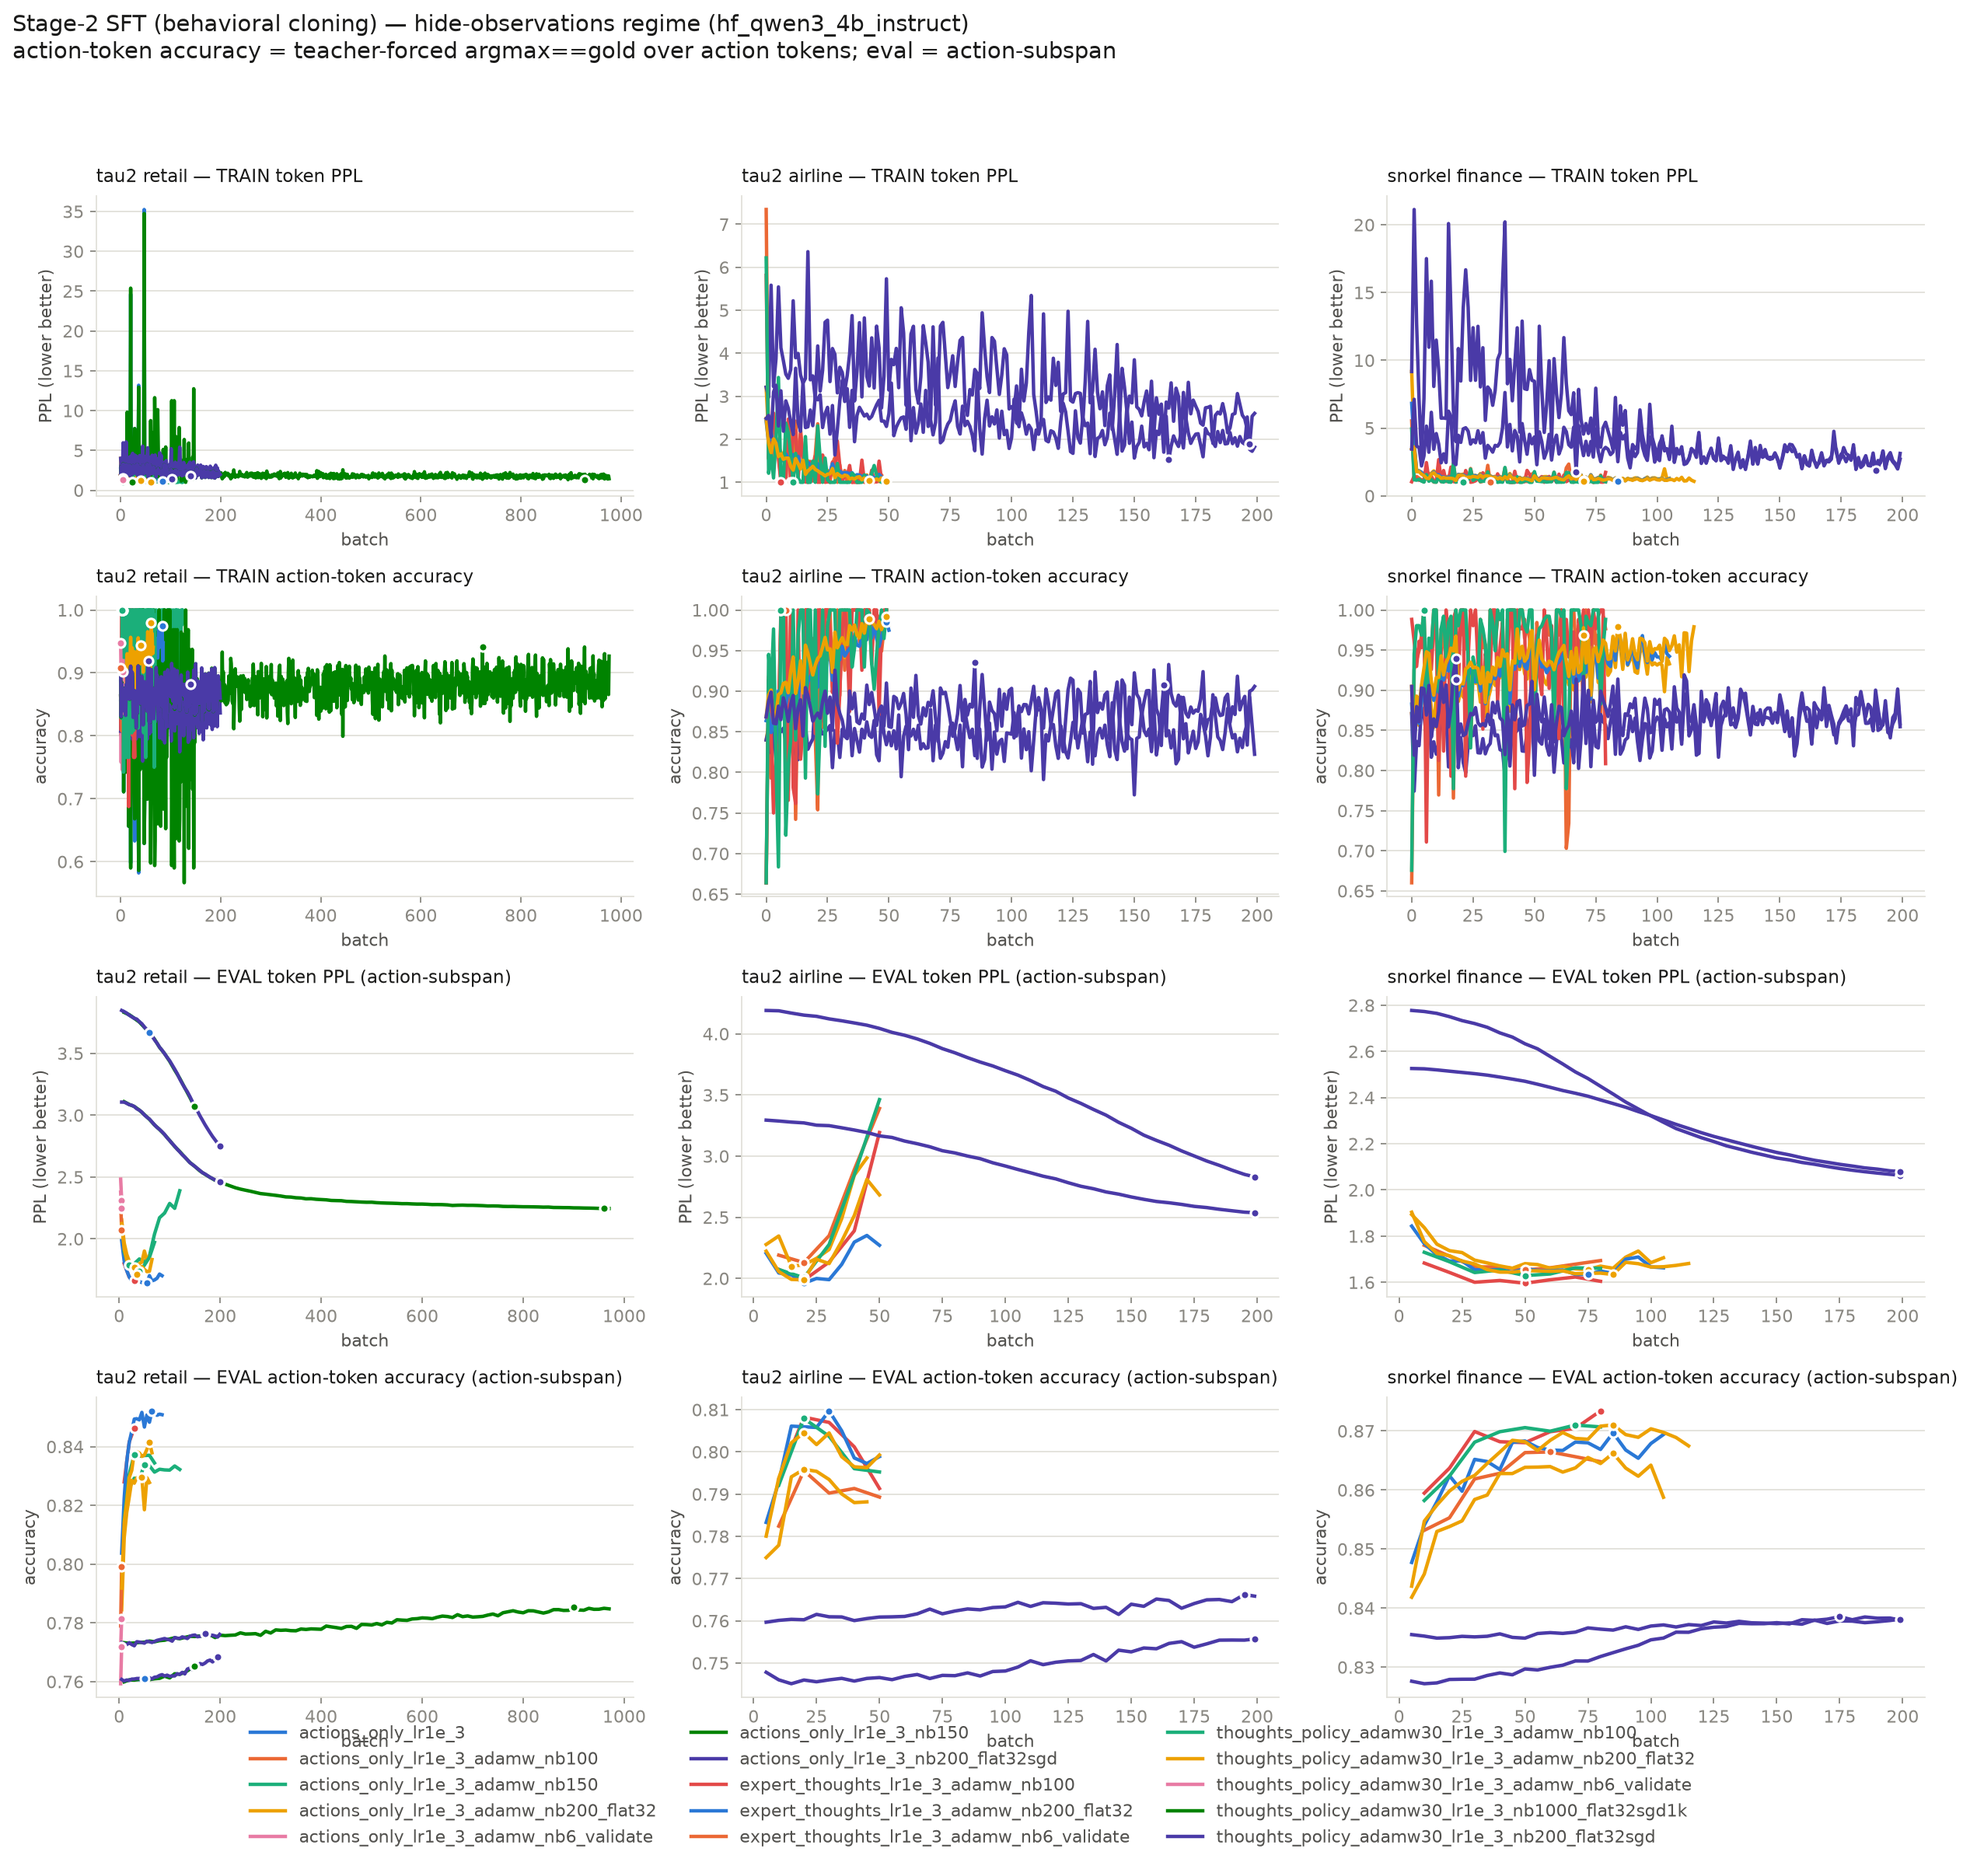
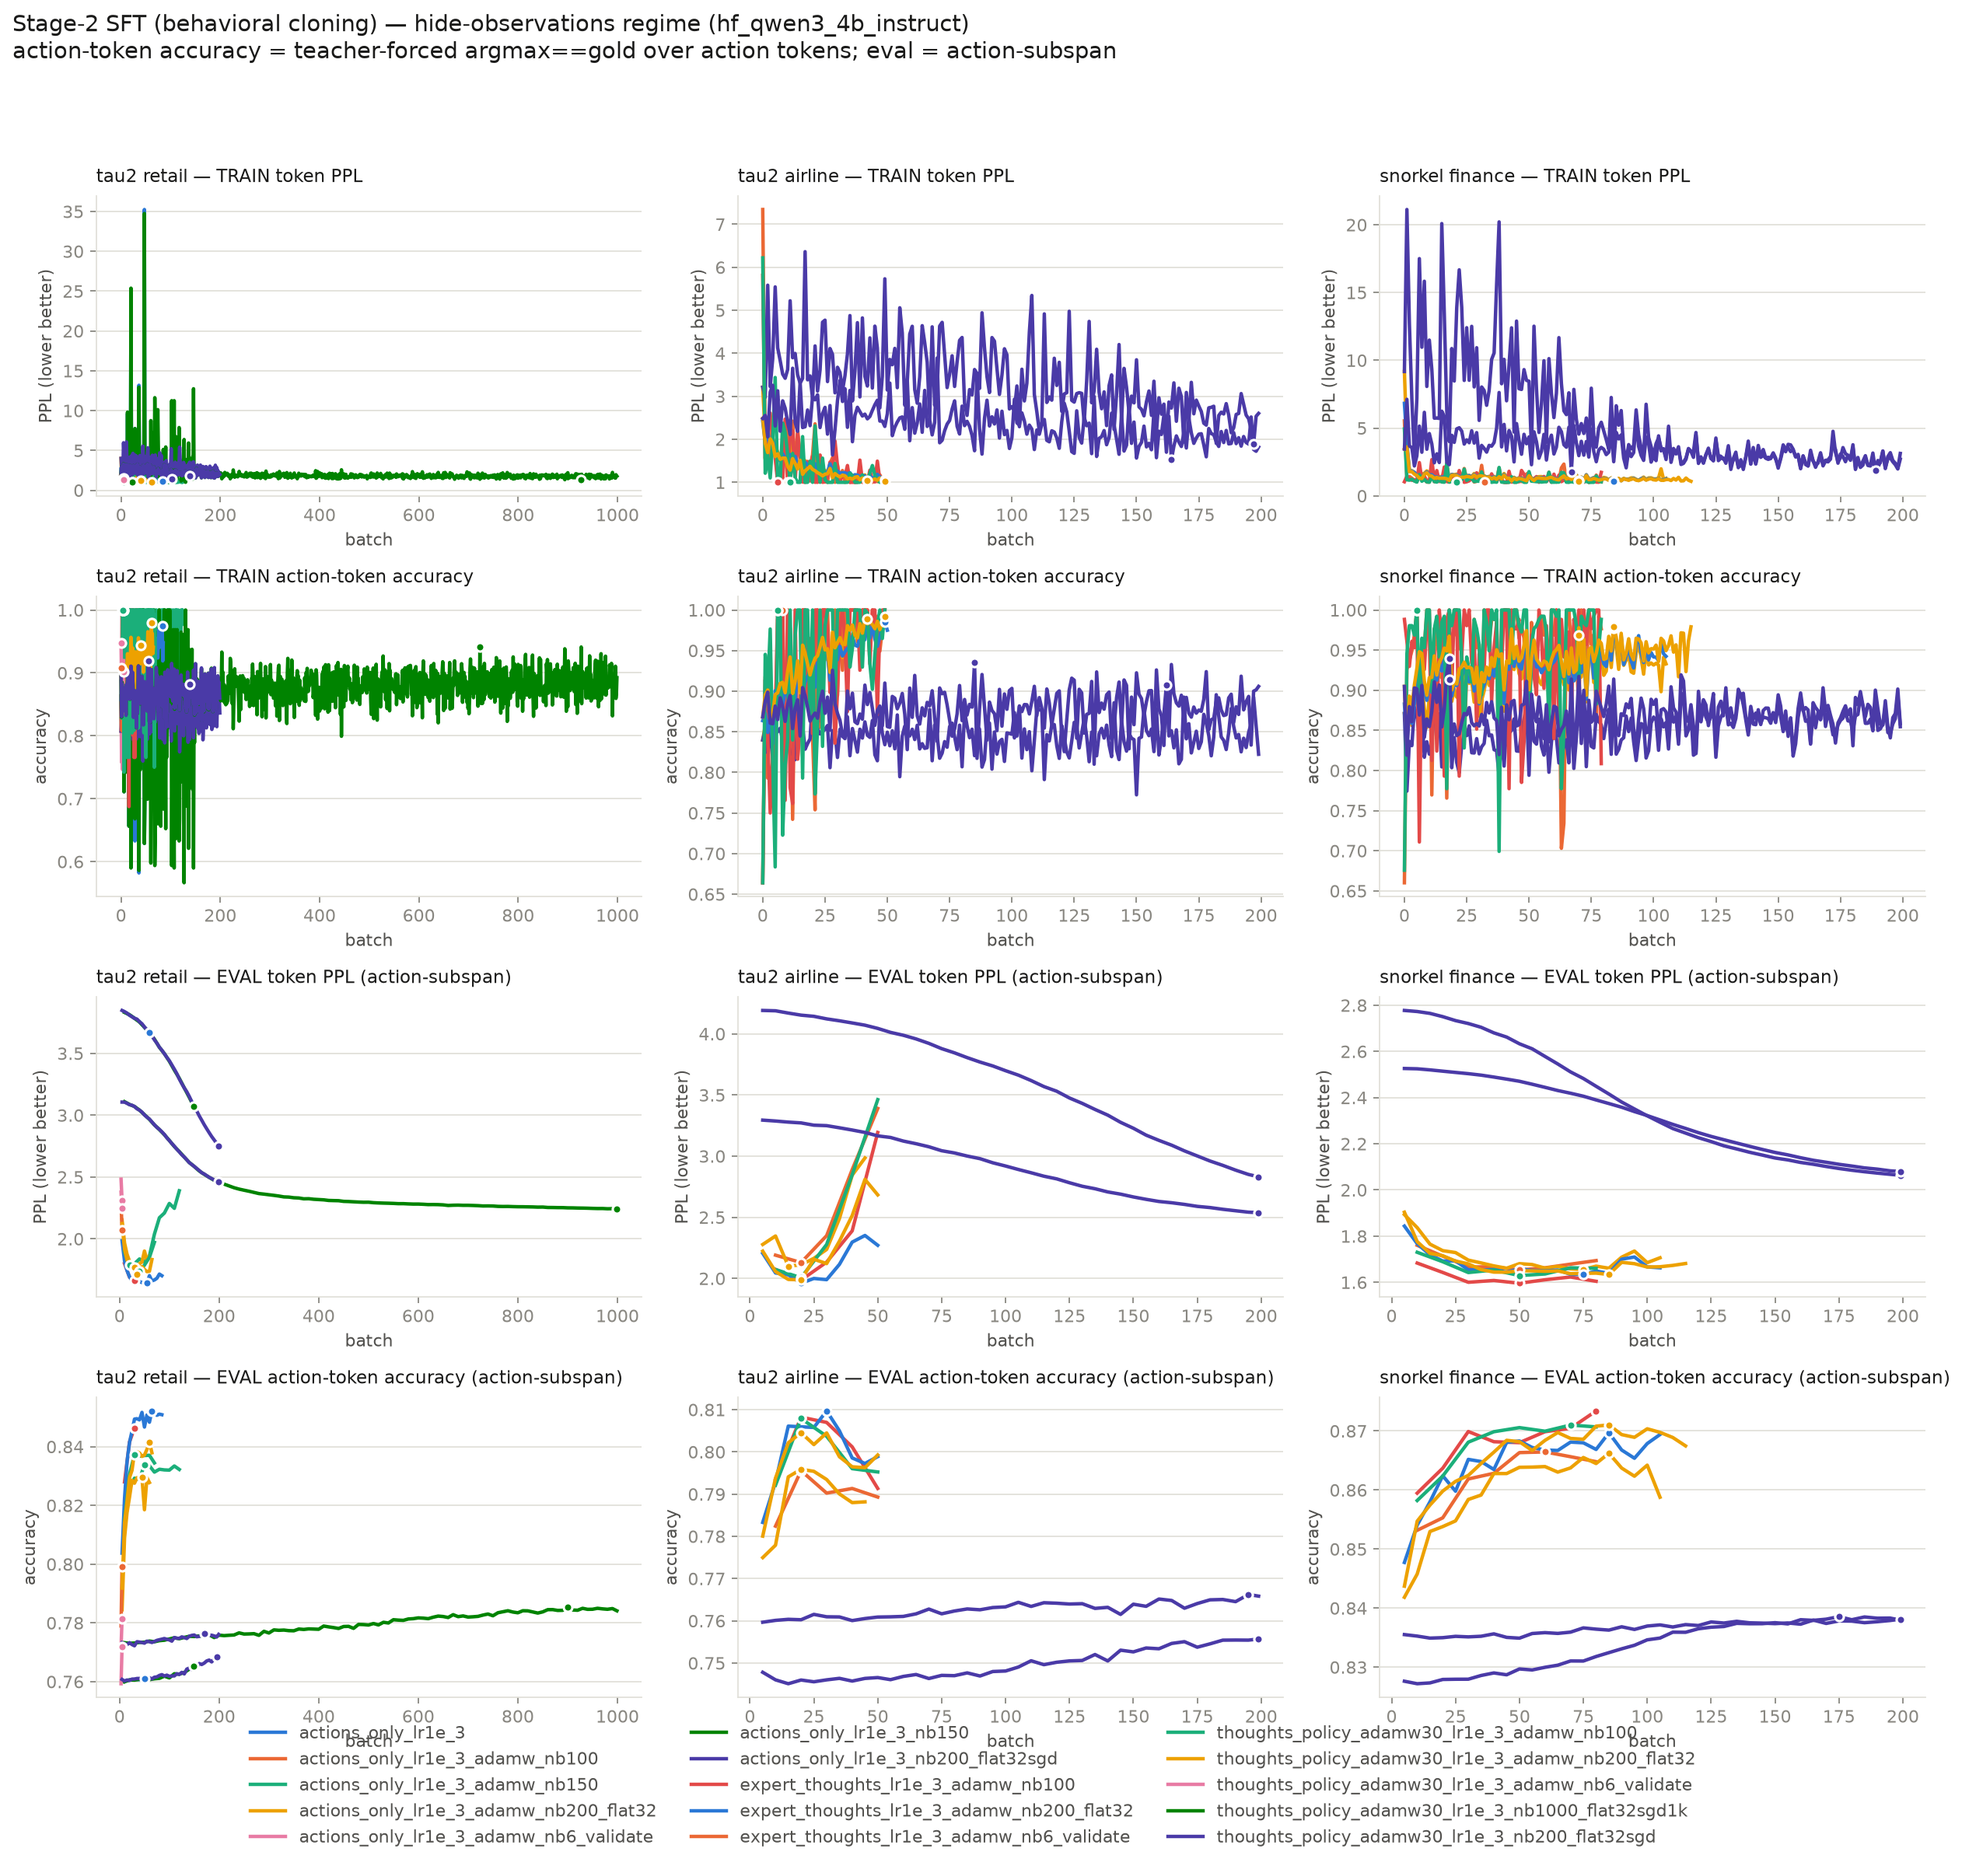
auto: SFT LR sweep results snapshot

diff --git a/notes/cc-5.0-sft-lr-investigation.md b/notes/cc-5.0-sft-lr-investigation.md
@@ -376,7 +376,7 @@ retail/expert_thoughts_lr1e_3_adamw_nb6_validate     hide    5     2.2879 ->   2
 retail/thoughts_policy_adamw30_lr1e_3_adamw_nb100    hide   70     1.8959 ->   1.9718  -4.00%  0.8345        1.3828  <running>
 retail/thoughts_policy_adamw30_lr1e_3_adamw_nb200_flat32 hide   65     2.1230 ->   1.8328  13.67%  0.8379        1.2222  <running>
 retail/thoughts_policy_adamw30_lr1e_3_adamw_nb6_validate hide    5     2.3775 ->   2.2449   5.57%  0.7814        1.3506
-retail/thoughts_policy_adamw30_lr1e_3_nb1000_flat32sgd1k hide  977     3.1089 ->   2.2453  27.78%  0.7848        1.9304  <running>
+retail/thoughts_policy_adamw30_lr1e_3_nb1000_flat32sgd1k hide  999     3.1089 ->   2.2427  27.86%  0.7841        1.7686
 retail/thoughts_policy_adamw30_lr1e_3_nb200_flat32sgd hide  199     3.1058 ->   2.4625  20.71%  0.7761        1.9910
 airline/actions_only_lr1e_3_adamw_nb100              hide   50     2.1901 ->   3.3899 -54.78%  0.7893        1.0000  <running>
 airline/actions_only_lr1e_3_adamw_nb200_flat32       hide   45     2.2776 ->   2.9850 -31.06%  0.7882        1.0679  <running>
@@ -395,9 +395,9 @@ snorkel_finance_split/thoughts_policy_adamw30_lr1e_3_adamw_nb100 hide   80     1
 snorkel_finance_split/thoughts_policy_adamw30_lr1e_3_adamw_nb200_flat32 hide  115     1.9037 ->   1.6815  11.67%  0.8675        1.0747  <running>
 snorkel_finance_split/thoughts_policy_adamw30_lr1e_3_nb200_flat32sgd hide  199     2.5260 ->   2.0800  17.66%  0.8381        3.1304
 
-11/31 arms complete   (Δ% = held-out action-subspan PPL improvement, higher is better)
+12/31 arms complete   (Δ% = held-out action-subspan PPL improvement, higher is better)
 ```
-_last refreshed: 2026-09-03 08:20_
+_last refreshed: 2026-09-03 08:40_
 <!--/RESULTS-->
 
 ## Infrastructure

diff --git a/notes/cc-3.0-retail_sft_results.md b/notes/cc-3.0-retail_sft_results.md
@@ -45,7 +45,7 @@ for wordiness rather than for mispredicting the action, which inverts the rankin
 | thoughts_policy_adamw30_lr1e_3_adamw_nb100 | hide | 1.7358 | 0.8368 | 40 | 1.9884 | 0.7917 | 20 | 0.3668 |
 | thoughts_policy_adamw30_lr1e_3_adamw_nb200_flat32 | hide | 1.7150 | 0.8383 | 35 | — | — | — | 0.2997 |
 | thoughts_policy_adamw30_lr1e_3_adamw_nb6_validate | hide | 2.2449 | 0.7814 | 5 | — | — | — | 0.6407 |
-| thoughts_policy_adamw30_lr1e_3_nb1000_flat32sgd1k | hide | 2.2451 | 0.7850 | 960 | — | — | — | 0.5625 |
+| thoughts_policy_adamw30_lr1e_3_nb1000_flat32sgd1k | hide | 2.2427 | 0.7841 | 999 | — | — | — | 0.7105 |
 | thoughts_policy_adamw30_lr1e_3_nb200_flat32sgd | hide | 2.4625 | 0.7761 | 199 | — | — | — | 0.8002 |
 | thoughts_policy_adamw30_lr1e_4_adamw_nb200_flat32 | hide | 1.7313 | 0.8393 | 140 | — | — | — | 0.2530 |
 | thoughts_policy_adamw30_lr3e_3_nb200_flat32sgd | hide | 2.2822 | 0.7809 | 199 | — | — | — | 0.6983 |
